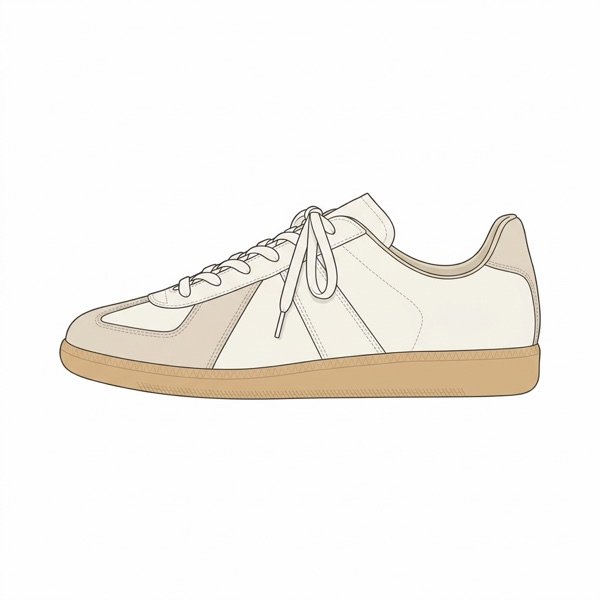
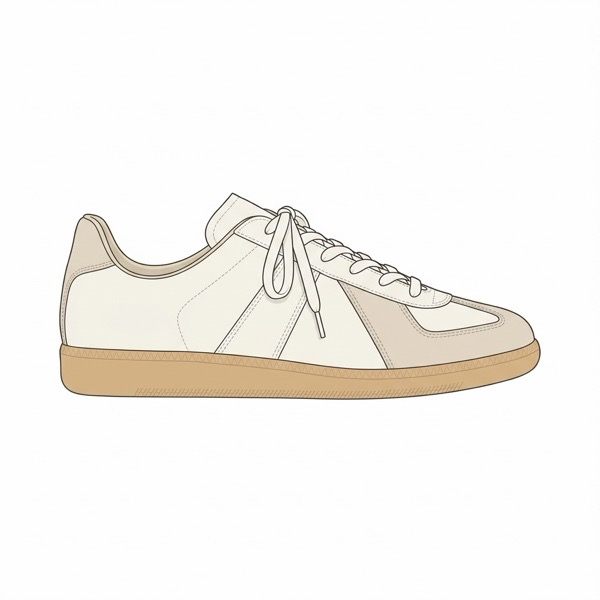
補上 oqLiq 外套與 About Companions 法蘭絨，德訓鞋改成跟其他鞋同方向
- 新增 shell-oqliq（oqLiq Cicada Wings 炭灰 S）與 shirt-flannel-blue
  （About Companions Simon 海洋藍 S）兩件單品
- sh-gat 水平鏡射，鞋尖改朝左，跟其他七雙一致
- shopping.json：oqLiq 改「已到貨・已試穿確認」並寫入試穿結論，
  法蘭絨改「已到貨」
- data-v 67 → 68

Changed region(s): [[0.09, 0.33, 0.9, 0.69], [0.51, 0.66, 0.66, 0.69], [0.33, 0.66, 0.48, 0.69]]

diff --git a/index.html b/index.html
@@ -1,5 +1,5 @@
 <!doctype html>
-<html lang="zh-Hant" data-v="67">
+<html lang="zh-Hant" data-v="68">
 <head>
 <meta charset="utf-8">
 <meta name="viewport" content="width=device-width, initial-scale=1, viewport-fit=cover">
